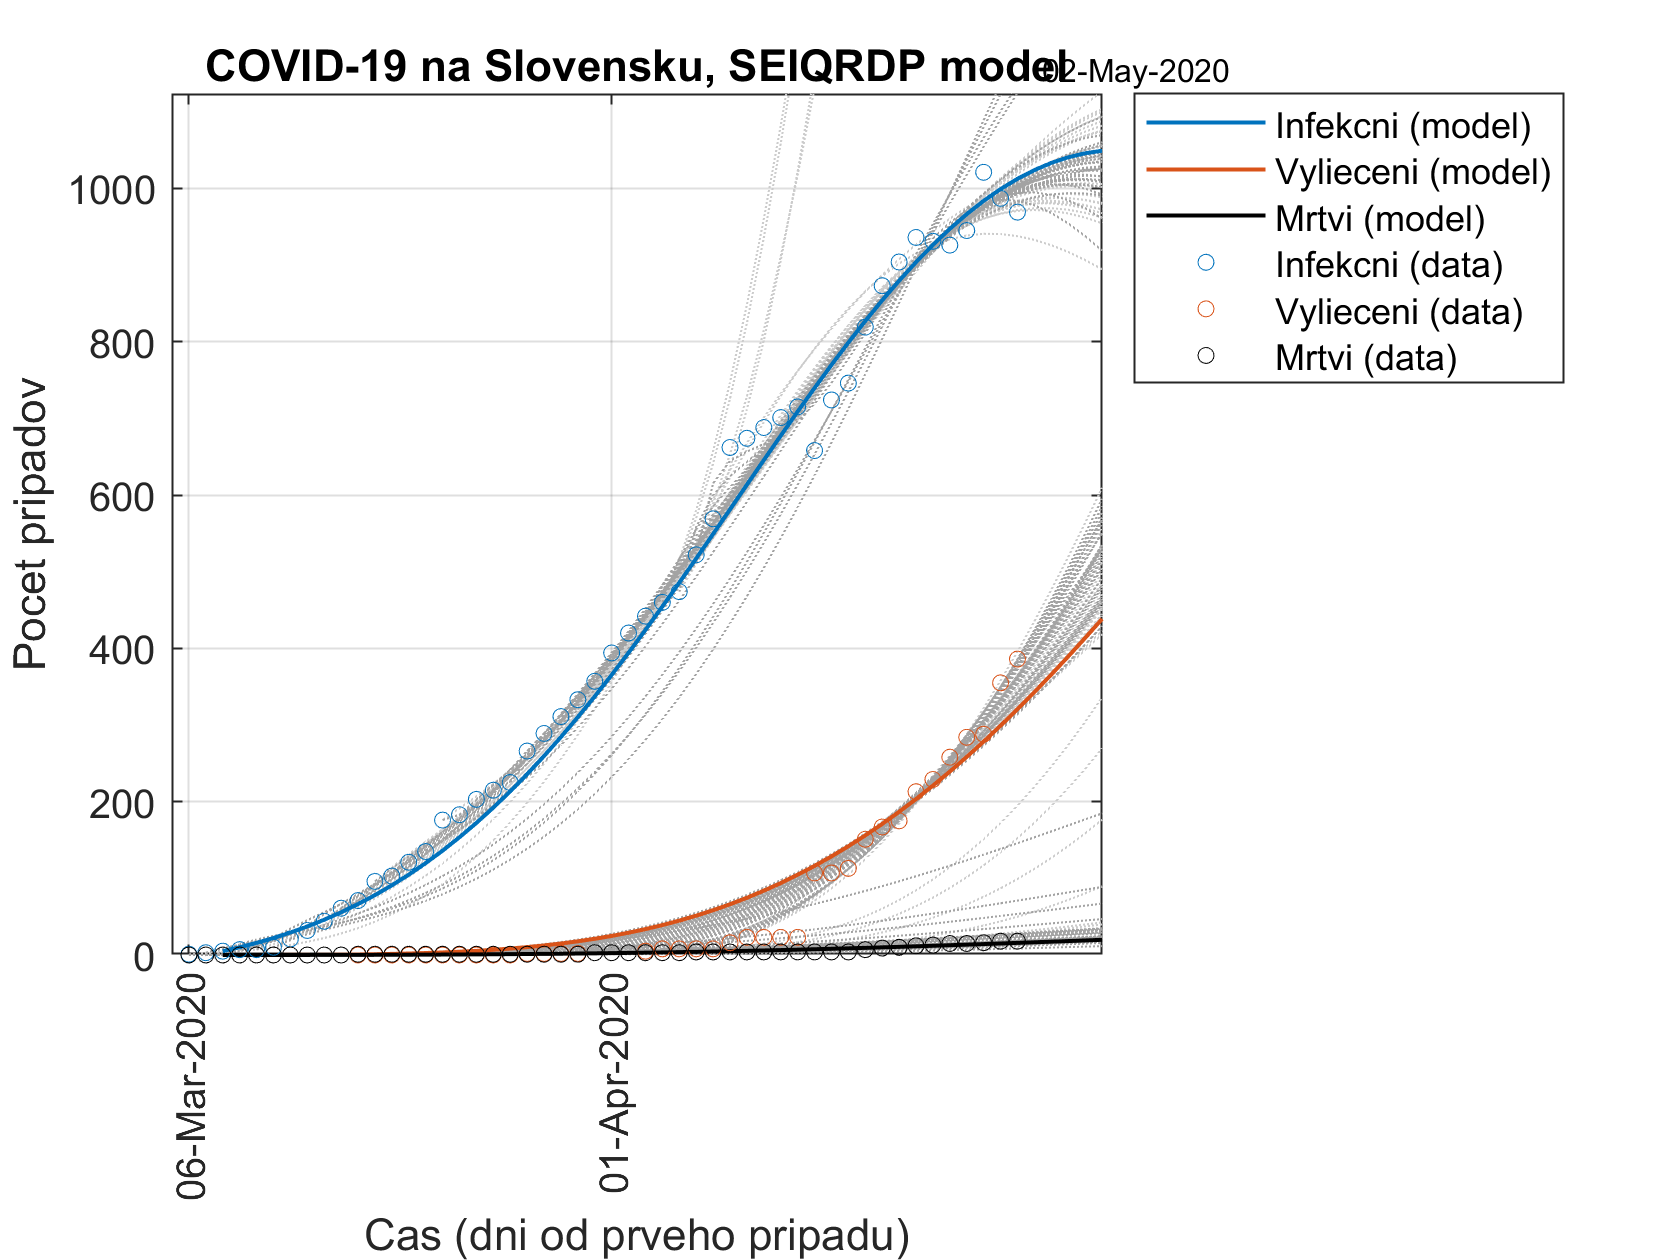
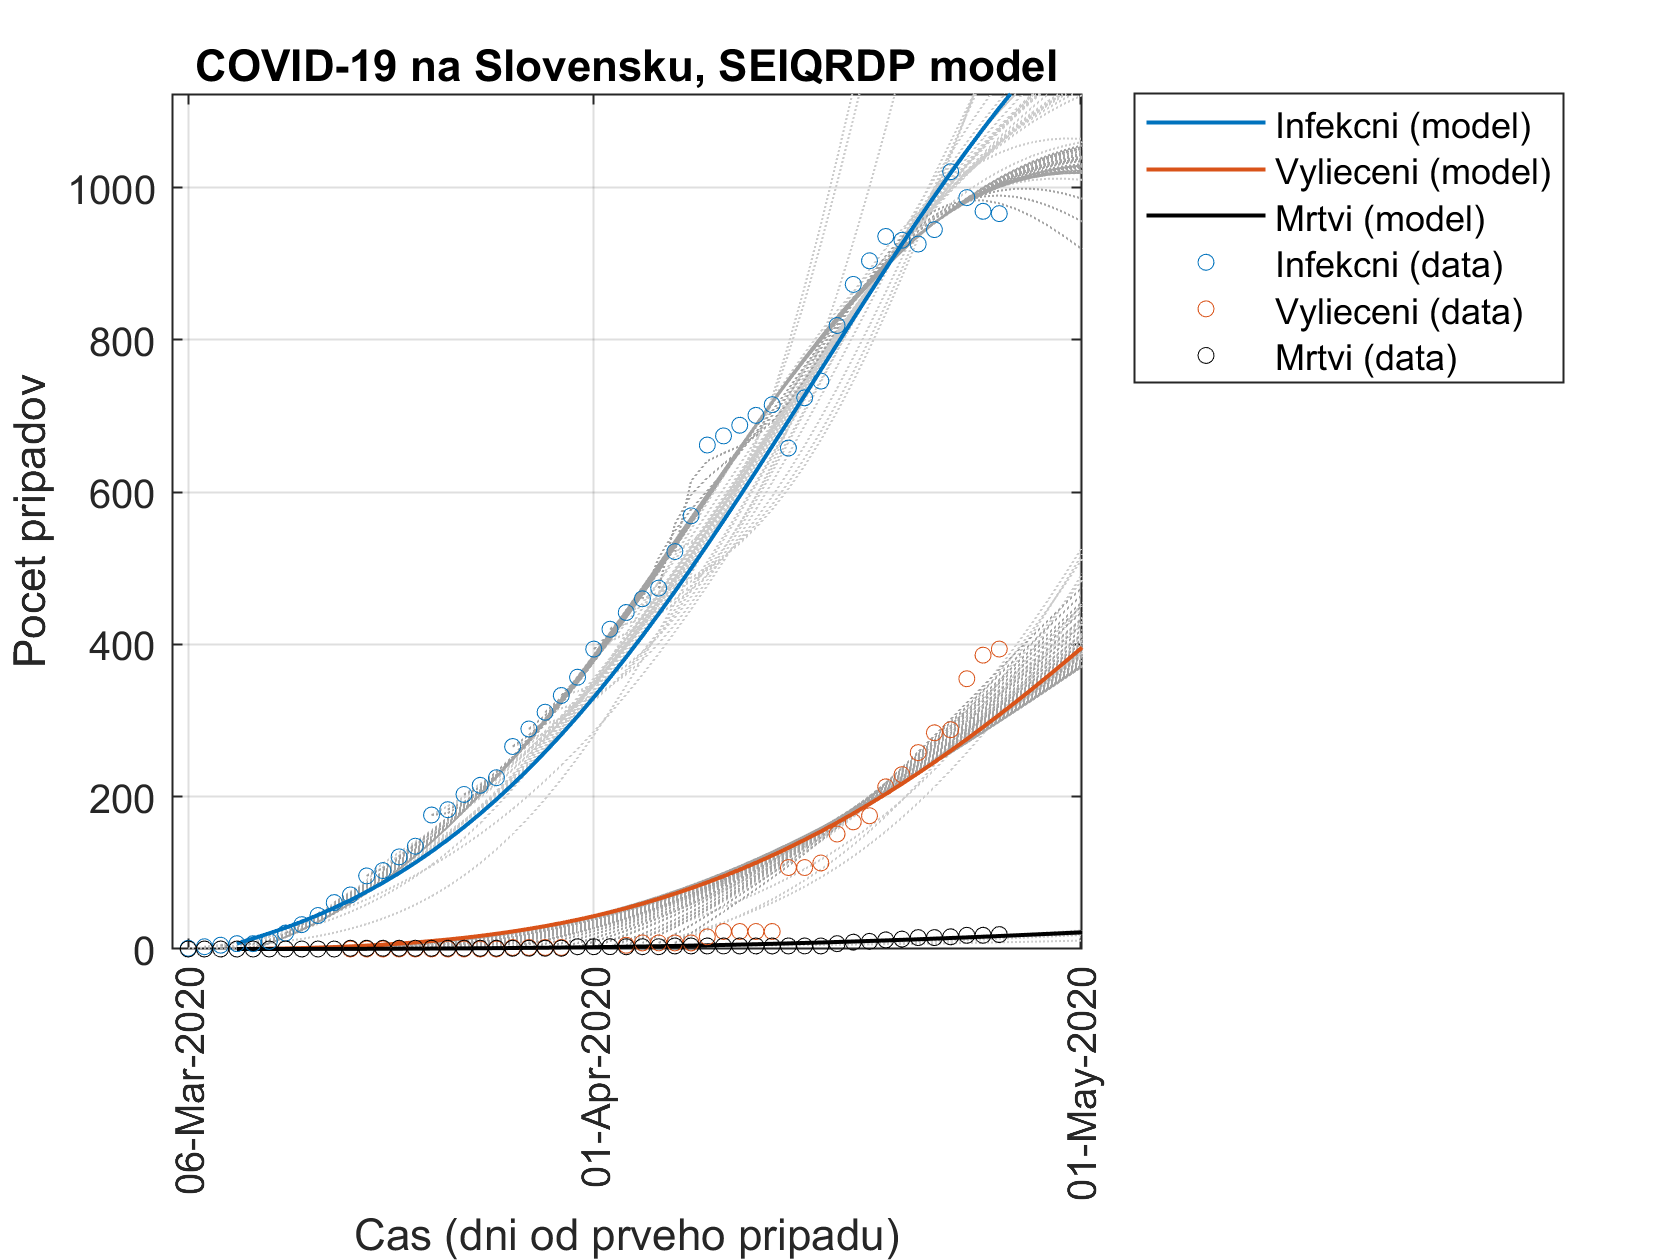
Daily update

diff --git a/fitSEIRDQP2.m b/fitSEIRDQP2.m
@@ -1,0 +1,194 @@
+function [SEIQRDPm,InitialStates] = fitSEIRDQP2(fitBegin,iter,mod,method);
+
+% Data reading and preparation
+importData;                              % Script to import the data from CSV
+
+I=cumsum(Confirmed);      % Cumulative sum of daily cases, transpose to make it compatible w/ E. Cheynet's code
+R=cumsum(Recovered);      % Cumulative sum of daily cases, transpose to make it compatible w/ E. Cheynet's code
+D=cumsum(Deaths);         % Cumulative sum of daily cases, transpose to make it compatible w/ E. Cheynet's code
+I=I-R-D;                   % Active infections
+
+D=D(fitBegin:end);
+I=I(fitBegin:end);
+R=R(fitBegin:end);
+
+
+%% Initial parameter guesses and conditions
+Npop= 5.45E6;                           % Population of SLovakia
+
+
+E0 = I(1); % Initial number of exposed cases. Unknown but unlikely to be zero.
+I0 = I(1); % Initial number of infectious cases. Unknown but unlikely to be zero.
+Q0 = I(1);
+R0 = R(1);
+D0 = D(1);
+P0 = 0;    % No one is protected
+S0 = Npop-E0-I0-Q0-R0-D0-P0;
+
+
+
+%% My interpretation
+
+Ts = 1;                              % Sampling [1 day]
+data = iddata([I R D],[],Ts);        % Create identification data object
+data.TimeUnit='days';                % Time units
+data.OutputName = [{'Infected'};{'Recovered'};{'Dead'}];              % Output name
+data.OutputUnit = [{'Cases'};{'Cases'};{'Cases'}];                          % Output unit
+%dataToFit=data(fitBegin:end);    % Create dataset itslef.
+
+alpha = 0.02;
+beta =  2;        % [Days] 
+sigma = 5;      % [Days] Latent period
+delta = 5;       % [Days] Quaratine period
+gamma=1/5;
+mu=4E-4;
+
+
+    
+    
+
+
+% alpha = 0.02;
+% beta =  2;        % [Days] 
+% sigma = 12;      % [Days] Latent period
+% delta = 4;       % [Days] Quaratine period
+% 
+% gamma0=0.15;
+% gamma1=0.003;
+% mu=4E-4;
+
+
+FileName             = 'SEIQRDP_ODE2';              % File describing the SIR model structure
+Order                = [3 0 7];                    % Model orders [ny nu nx]
+Parameters           = [alpha,1/beta,1/sigma,1/delta,gamma,mu];     % Initial values of parameters
+InitialStates        = [S0;E0;I0;Q0;R0;D0;P0];  % Initial values of  [S I R] states
+Ts                   = 0;                      % Time-continuous system
+
+% Set identification options
+SEIQRDPinit = idnlgrey(FileName,Order,Parameters,InitialStates,Ts,'TimeUnit','days','Name','SEIQRDP Model');
+%SEIQRDPinit = setpar(SEIQRDPinit,'Name',{'beta (exposure rate)','sigma (infection rate)','gamma (removal rate)','lambda (birth rate)','mu (death rate)'});
+%SEIQRDPinit = setinit(SEIQRDPinit,'Name',{'Susceptible' 'Exposed' 'Infected' 'Removed'});
+
+% --------------Parameters--------------------
+
+% alpha - protection rate
+SEIQRDPinit.Parameters(1).Minimum = 0;      
+SEIQRDPinit.Parameters(1).Maximum = 0.2;   
+SEIQRDPinit.Parameters(1).Fixed = false;
+
+% beta - infection rate
+SEIQRDPinit.Parameters(2).Minimum = 0.2;    % [1/days] 
+SEIQRDPinit.Parameters(2).Maximum = 5;      % [1/days]       
+SEIQRDPinit.Parameters(2).Fixed = false;
+    
+% sigma - latent period
+SEIQRDPinit.Parameters(3).Minimum = 1/31;   % [1/days] 
+SEIQRDPinit.Parameters(3).Maximum = 1/1;    % [1/days] 
+SEIQRDPinit.Parameters(3).Fixed = false; 
+
+% delta - quarantining period 1/days
+SEIQRDPinit.Parameters(4).Minimum = 1/31;  
+SEIQRDPinit.Parameters(4).Maximum = 1/0.1;    % [1/days] 
+SEIQRDPinit.Parameters(4).Fixed = false; 
+
+% gamma0 - recovery rate
+SEIQRDPinit.Parameters(5).Minimum = eps;   % [1/days] 
+%SEIQRDPinit.Parameters(5).Maximum = 0.1;    % [1/days] 
+SEIQRDPinit.Parameters(5).Fixed = false; 
+
+    
+% mu - death
+SEIQRDPinit.Parameters(6).Minimum = eps;   % [1/days] 
+%SEIQRDPinit.Parameters(6).Maximum = 1/1;    % [1/days] 
+SEIQRDPinit.Parameters(6).Fixed = false;
+
+
+
+% --------------Initial conditions--------------------
+% Susceptibles
+
+
+SEIQRDPinit.InitialStates(1).Fixed   = false; % S(0)
+
+SEIQRDPinit.InitialStates(2).Fixed   = false; % E(0) 
+
+SEIQRDPinit.InitialStates(3).Fixed   = false; % I(0) 
+
+SEIQRDPinit.InitialStates(4).Fixed   = true;  % Q(0)
+SEIQRDPinit.InitialStates(4).Minimum = I0; 
+SEIQRDPinit.InitialStates(4).Maximum = 1.2*I0; 
+
+SEIQRDPinit.InitialStates(5).Fixed   = true;  
+SEIQRDPinit.InitialStates(5).Minimum = R0; 
+SEIQRDPinit.InitialStates(5).Maximum = 1.2*Q0; 
+
+SEIQRDPinit.InitialStates(6).Fixed   = true;  
+SEIQRDPinit.InitialStates(6).Minimum = D0; 
+SEIQRDPinit.InitialStates(6).Maximum = 1.2*D0; 
+
+SEIQRDPinit.InitialStates(7).Fixed   = false;  
+
+%--- Simulation options
+
+SEIQRDPinit.SimulationOptions.FixedStep=1/24;
+%SEIQRDPinit.SimulationOptions.Solver='ode45';
+
+%optEst.Regularization.Lambda=0; 
+%optEst.Regularization.Nominal='zero'; % Which way it pulls params
+
+
+optEst = nlgreyestOptions('Display','on','EstCovar',true); %gna
+
+if strcmp(method,'gn')
+optEst.SearchMethod= 'gn';
+%optEst.GradientOptions.MinDifference=1E-2;
+optEst.SearchOption.MaxIter = iter;          
+end
+
+if strcmp(method,'gna')
+optEst.SearchMethod= 'gna';
+%optEst.GradientOptions.MinDifference=1E-2;
+optEst.SearchOption.MaxIter = iter;          
+end
+
+if strcmp(method,'lm')
+ optEst.SearchMethod= 'lm';
+ optEst.GradientOptions.MinDifference=1E-4;
+ optEst.SearchOption.MaxIter = iter;   
+end
+
+
+if strcmp(method,'fmincon')
+ optEst.SearchMethod= 'fmincon'; 
+ optEst.SearchOption.FunctionTolerance = 1E-4;
+ optEst.SearchOption.StepTolerance     = 1E-4;   
+ optEst.SearchOption.MaxIter = iter;  
+ %optEst.SearchOption.Algorithm = 'interior-point';  
+ optEst.SearchOption.Algorithm = 'trust-region-reflective';
+ % sqp useless, active set a bit less useless there is hope
+ % trust region reflective seems to be the best
+ % interior point gets stuck on some
+end
+
+      %Maximal number of iterations
+if strcmp(method,'lsqnonlin')
+ optEst.SearchMethod= 'lsqnonlin';
+ optEst.SearchOption.FunctionTolerance = 1E-4;
+ optEst.SearchOption.StepTolerance     = 1E-4;   
+ optEst.SearchOption.MaxIter = iter;   
+ %optEst.GradientOptions.MinDifference=1E-8;
+end
+
+
+
+% Does not converge 'fmincon', 
+% Does converge 
+% -'gna' most robustly w/ good results, without a lot of fine tuning, but
+% some results widely fly off to "unstable"-ish results. FPE seems to be
+% more reliable of determining the best.
+% - 'lsqnonlin' stalls out of the box, but with MinDifference set to 1E-4
+% itproduces actually more stable results than gna
+% -'lm' with low iteration number
+
+SEIQRDPm = nlgreyest(data,SEIQRDPinit,optEst);              % Run identification procedure
+InitialStates=[SEIQRDPm.InitialStates(1).Value;SEIQRDPm.InitialStates(2).Value;SEIQRDPm.InitialStates(3).Value;SEIQRDPm.InitialStates(4).Value;SEIQRDPm.InitialStates(5).Value;SEIQRDPm.InitialStates(6).Value;;SEIQRDPm.InitialStates(7).Value];

diff --git a/SEIQRDP_ODE2.m b/SEIQRDP_ODE2.m
@@ -1,0 +1,44 @@
+% SEIQRDP homogeneus infection dynamics without vital dynamics
+% This is just the state-space model of the dynamics
+
+% Gergely Takacs, April 2020
+% No guarantees given whatsoever. Stay at home, wash your hands, it will
+% pass sooner or later.
+%
+% See covid19.gergelytakacs.com for more
+
+% x(1) - S(t) - Susceptible population
+% x(2) - E(t) - Exposed cases
+% x(3) - I(t) - Infectious cases
+% x(4) - Q(t) - Quarantined cases
+% x(5) - R(t) - Recovered cases
+% x(6) - D(t) - Deaths
+% x(7) - P(t) - Insusceptible cases
+
+% alpha       - protection rate
+% beta        - infection rate
+% sigma       - inverse of mean latent time
+% delta       - inverse of mean quarantine time
+% gamma       - cure rate
+% mu          - mortality rate
+% N           - population
+
+
+
+function [dx y] = SEIQRDP_ODE2(t, x, u, alpha,beta,sigma,delta,gamma, mu, varargin)
+
+
+N = x(1)+x(2)+x(3)+x(4)+x(5)+x(6)+x(7);                                                             % Computing total population
+
+
+dx(1) =   -alpha*x(1) -beta*x(1)*x(3)/N;                                                            % (S(t)) Differential equation for Susceptible cases. People are either exposed to the virus or protected by social distancing measures, gov't. action, PPE, etc.
+dx(2) =               +beta*x(1)*x(3)/N  -sigma*x(2);                                               % (E(t)) Differential equation for Exposed cases. People get exposed to the disease. This group then transfers to the actively infectious group.
+dx(3) =                                   sigma*x(2)  -delta*x(3);                                  % (I(t)) Differential equation for Infected cases. Exposed people will eventually start to infect and become actively infectious.
+dx(4) =                                                delta*x(3)   -gamma*x(4)  -mu*x(4);          % (Q(t)) Differential equation for Quarantined cases. These are the infections that are caught by testing, then quarantined in hospitals, facilities or at home.
+dx(5) =                                                              gamma*x(4) ;                   % (R(t)) Differential equation for Recovered cases. People recover from the infection.
+dx(6) =                                                                           mu*x(4);          % (D(t)) Differential equation for Deaths. Certain infections are fatal.
+dx(7) =   alpha*x(1);                                                                               % (P(t)) Differential equation for Protected cases. People protected by social distancing measures, gov't. action, PPE, etc.
+
+y=[x(4); x(5); x(6)];                                                                               % (y(t))   Output, where I(t), R(t), D(t) is measured
+
+end
